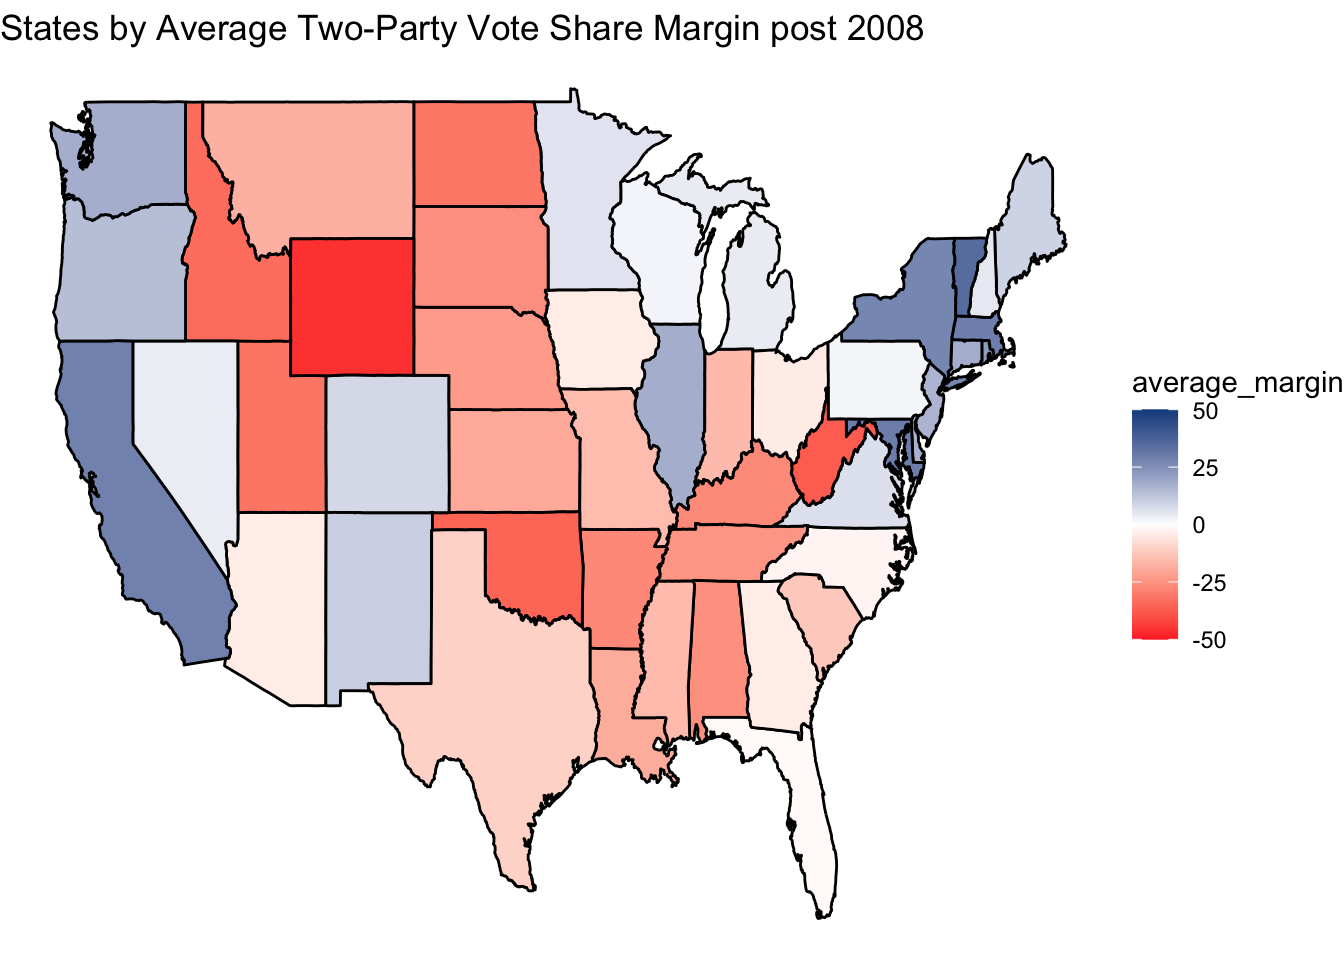
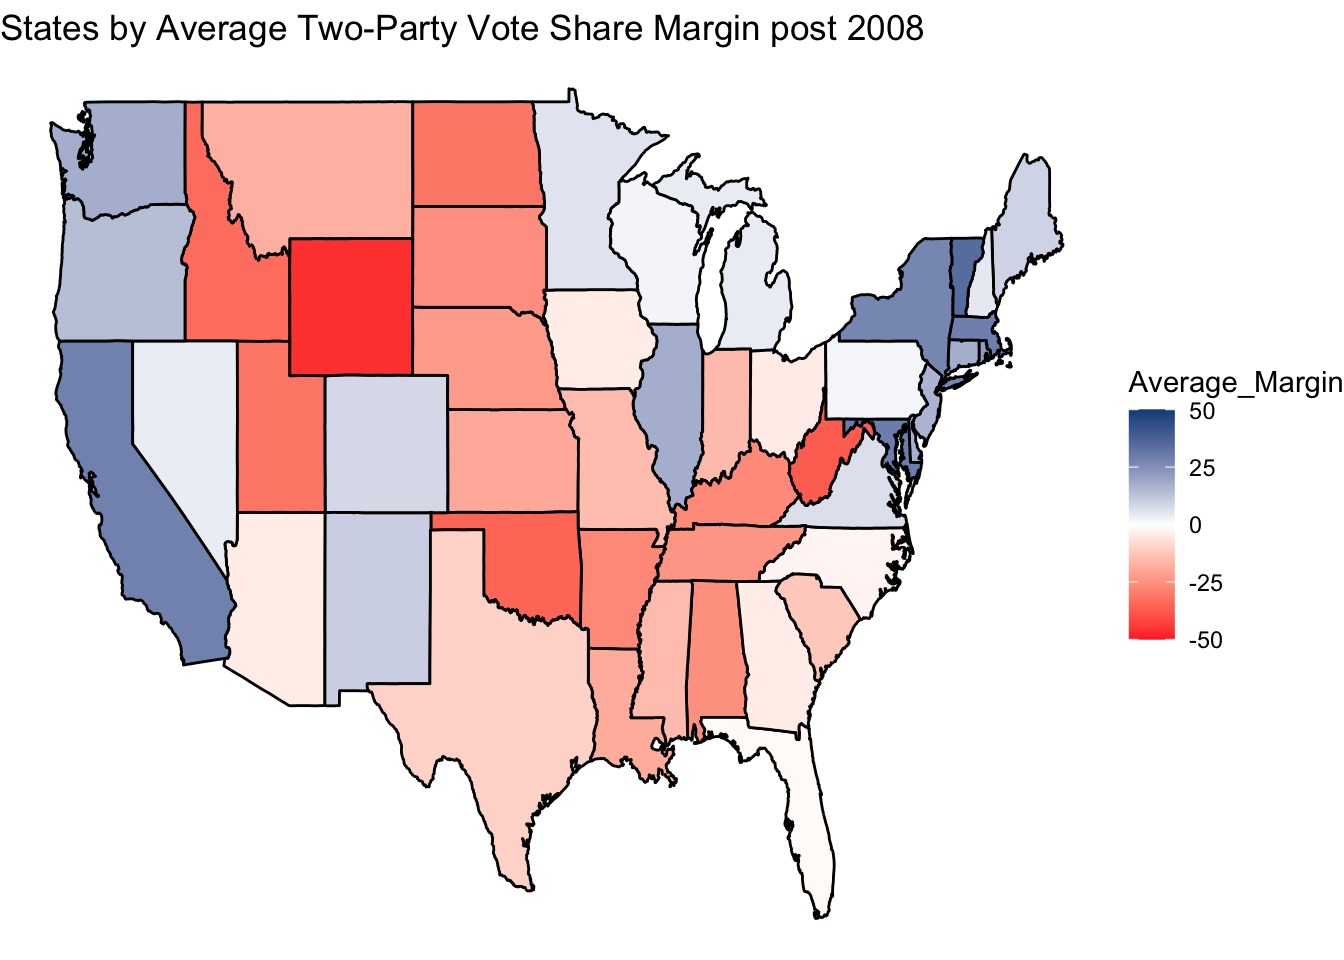
Update comments on site

diff --git a/public/post/2024/09/07/week-1-initial-analyses/index.html b/public/post/2024/09/07/week-1-initial-analyses/index.html
@@ -26,7 +26,7 @@
 </div>
 
 <main>
-<p>In this first blog post, I conduct some initial analyses of historical American presidential elections. Using popular vote data from 1948-2020 (provided by the course), I analyze how competitive elections are and the proportion of states that vote blue/red. My thanks to Matt Dardet for writing much of this code during and before our weekly section, as well as ShuXin Ho for helping me identify latitude/longitude loading bugs in my maps.</p>
+<p>In this first blog post, I conduct some initial analyses of historical American presidential elections. Using popular vote data from 1948-2020 (provided by the course), I analyze how competitive elections are and the proportion of states that vote blue/red. My thanks to Matt Dardet for writing much of this code during and before our weekly section, as well as ShuXin Ho for helping me identify latitude/longitude loading bugs in my maps when we were initially building them in section.</p>
 <p>To answer this week&rsquo;s questions, which focus on electoral competitiveness and historical voting patterns, we began by observing general trends in preference for either of the two major parties&rsquo; candidates between 1948 and 2020 at both the national and state level. For the former, we produced a line plot of the two-party vote share per party in each election. For the latter, we showed which candidate won each state in each election.</p>
 <pre><code class="language-r">library(ggplot2)
 library(maps)
@@ -91,7 +91,7 @@ d_pvstate_wide &lt;- read_csv(&quot;clean_wide_state_2pv_1948_2020.csv&quot;)
 # Creating new dataframe with winners highlighted
 pop_2p_vote_w_state &lt;- d_pvstate_wide |&gt;
   left_join(states_map, by = &quot;region&quot;) |&gt;
-  mutate(winner = ifelse(D_pv2p &gt; R_pv2p, &quot;D&quot;, &quot;R&quot;))
+  mutate(Winner = ifelse(D_pv2p &gt; R_pv2p, &quot;D&quot;, &quot;R&quot;))
 </code></pre>
 <pre><code>## Warning in left_join(d_pvstate_wide, states_map, by = &quot;region&quot;): Detected an unexpected many-to-many relationship between `x` and `y`.
 ## ℹ Row 1 of `x` matches multiple rows in `y`.
@@ -101,11 +101,12 @@ pop_2p_vote_w_state &lt;- d_pvstate_wide |&gt;
 </code></pre>
 <pre><code class="language-r"># Map of Two Party Popular Vote Winners by State
 pop_2p_vote_winner_by_year_map &lt;- pop_2p_vote_w_state |&gt;
-  ggplot(mapping = aes(x = long, y = lat, group = group)) + geom_polygon(aes(fill = winner), color = &quot;black&quot;) +
+  ggplot(mapping = aes(x = long, y = lat, group = group)) + geom_polygon(aes(fill = Winner), color = &quot;black&quot;) +
   scale_fill_manual(values = c(&quot;dodgerblue4&quot;, &quot;firebrick1&quot;)) +
   facet_wrap(~year)+
   theme_void() +
-  labs(title = &quot;Two-Party Popular Vote Winners by State by Year&quot;)
+  labs(title = &quot;Two-Party Popular Vote Winners by State by Year&quot;,
+       label = &quot;Winner of State&quot;)
 
 line_plot_win_trend
 </code></pre>
@@ -114,18 +115,20 @@ line_plot_win_trend
 </code></pre>
 <img src="https://example.org/post/2024/09/07/week-1-initial-analyses/index_files/figure-html/unnamed-chunk-2-2.png" width="672" />
 <p>To further explore state competitiveness, especially in recent years, I also produced the following map demonstrating the average two-party popular vote margin in each state in each election following 2008. I chose this cutoff to reflect modern trends in state-party alignment, especially in the era of Trump.</p>
-<pre><code class="language-r">pop_2p_vote_by_state_post2008 &lt;- pop_2p_vote_w_state |&gt;
+<pre><code class="language-r"># Dataframe averaging the margin between Democratic and Republican vote share for 2012, 2016, and 2020 elections (by state)
+pop_2p_vote_by_state_post2008 &lt;- pop_2p_vote_w_state |&gt;
   filter(year &gt; 2008) |&gt;
   mutate(margin = D_pv2p - R_pv2p) |&gt;
-  group_by(state, group, order, lat, long) |&gt;
-  summarize(average_margin = mean(margin))
+  group_by(state, group, order, lat, long) |&gt; # This particular order was necessary to avoid code bugs
+  summarize(Average_Margin = mean(margin))
 </code></pre>
 <pre><code>## `summarise()` has grouped output by 'state', 'group', 'order', 'lat'. You can
 ## override using the `.groups` argument.
 </code></pre>
-<pre><code class="language-r">map_pop_2p_vote_by_state_post2008 &lt;- pop_2p_vote_by_state_post2008 |&gt;
+<pre><code class="language-r"># Mapping margin
+map_pop_2p_vote_by_state_post2008 &lt;- pop_2p_vote_by_state_post2008 |&gt;
   ggplot(mapping = aes(x=long, y = lat, group = group)) +
-  geom_polygon(aes(fill = average_margin), color = &quot;black&quot;) +
+  geom_polygon(aes(fill = Average_Margin), color = &quot;black&quot;) +
   scale_fill_gradient2(high= &quot;dodgerblue4&quot;,
                        mid = &quot;white&quot;,
                        low = &quot;firebrick1&quot;,
@@ -141,10 +144,11 @@ map_pop_2p_vote_by_state_post2008
 <img src="https://example.org/post/2024/09/07/week-1-initial-analyses/index_files/figure-html/unnamed-chunk-3-1.png" width="672" />
 <p>States that are more red on this map have consistently tended to overwhelmingly vote Republican, while those that are more blue have consistently voted overwhelmingly Democrat. While states like California and Wyoming appear to often regularly vote Democrat and Republican respectively, it is interesting to observe cases like Ohio or Michigan, which may tend to lean Republican or Democrat, but have a much smaller margin, indicating greater competitiveness.</p>
 <p>Then, to further understand what states have been battlegrounds, I created an additional map, which plots the degree to which a state&rsquo;s Democratic vote share has changed. Assuming that any declines correspond to an equal increase in Republican vote share and increases correspond to an equal decline in Republican vote share (ie: we ignore third party candidates for now), this map shows if a state has become &ldquo;redder&rdquo; or &ldquo;bluer&rdquo; since the previous election.</p>
-<pre><code class="language-r">swing_maps_data &lt;- pop_2p_vote_w_state |&gt;
-  mutate(swing = (D_pv2p) - (D_pv2p_lag1)) |&gt;
+<pre><code class="language-r"># New map measuring variation in Democratic vote share from previous election
+swing_maps_data &lt;- pop_2p_vote_w_state |&gt;
+  mutate(Democratic_Vote_Change = (D_pv2p) - (D_pv2p_lag1)) |&gt;
   ggplot(aes(x = long, y = lat, group = group)) + 
-  geom_polygon(aes(fill = swing), color = &quot;black&quot;) +
+  geom_polygon(aes(fill = Democratic_Vote_Change), color = &quot;black&quot;) +
   scale_fill_gradient2(low = &quot;firebrick1&quot;,
                       mid = &quot;white&quot;,
                       high = &quot;dodgerblue4&quot;,

diff --git a/content/post/2024-09-07-week-1-initial-analyses/index.md b/content/post/2024-09-07-week-1-initial-analyses/index.md
@@ -7,7 +7,7 @@ categories: []
 tags: []
 ---
 
-In this first blog post, I conduct some initial analyses of historical American presidential elections. Using popular vote data from 1948-2020 (provided by the course), I analyze how competitive elections are and the proportion of states that vote blue/red. My thanks to Matt Dardet for writing much of this code during and before our weekly section, as well as ShuXin Ho for helping me identify latitude/longitude loading bugs in my maps.
+In this first blog post, I conduct some initial analyses of historical American presidential elections. Using popular vote data from 1948-2020 (provided by the course), I analyze how competitive elections are and the proportion of states that vote blue/red. My thanks to Matt Dardet for writing much of this code during and before our weekly section, as well as ShuXin Ho for helping me identify latitude/longitude loading bugs in my maps when we were initially building them in section.
 
 
 To answer this week's questions, which focus on electoral competitiveness and historical voting patterns, we began by observing general trends in preference for either of the two major parties' candidates between 1948 and 2020 at both the national and state level. For the former, we produced a line plot of the two-party vote share per party in each election. For the latter, we showed which candidate won each state in each election. 
@@ -94,7 +94,7 @@ d_pvstate_wide$region = tolower(d_pvstate_wide$state)
 # Creating new dataframe with winners highlighted
 pop_2p_vote_w_state <- d_pvstate_wide |>
   left_join(states_map, by = "region") |>
-  mutate(winner = ifelse(D_pv2p > R_pv2p, "D", "R"))
+  mutate(Winner = ifelse(D_pv2p > R_pv2p, "D", "R"))
 ```
 
 ```
@@ -108,11 +108,12 @@ pop_2p_vote_w_state <- d_pvstate_wide |>
 ``` r
 # Map of Two Party Popular Vote Winners by State
 pop_2p_vote_winner_by_year_map <- pop_2p_vote_w_state |>
-  ggplot(mapping = aes(x = long, y = lat, group = group)) + geom_polygon(aes(fill = winner), color = "black") +
+  ggplot(mapping = aes(x = long, y = lat, group = group)) + geom_polygon(aes(fill = Winner), color = "black") +
   scale_fill_manual(values = c("dodgerblue4", "firebrick1")) +
   facet_wrap(~year)+
   theme_void() +
-  labs(title = "Two-Party Popular Vote Winners by State by Year")
+  labs(title = "Two-Party Popular Vote Winners by State by Year",
+       label = "Winner of State")
 
 line_plot_win_trend
 ```
@@ -131,11 +132,12 @@ To further explore state competitiveness, especially in recent years, I also pro
 
 
 ``` r
+# Dataframe averaging the margin between Democratic and Republican vote share for 2012, 2016, and 2020 elections (by state)
 pop_2p_vote_by_state_post2008 <- pop_2p_vote_w_state |>
   filter(year > 2008) |>
   mutate(margin = D_pv2p - R_pv2p) |>
-  group_by(state, group, order, lat, long) |>
-  summarize(average_margin = mean(margin))
+  group_by(state, group, order, lat, long) |> # This particular order was necessary to avoid code bugs
+  summarize(Average_Margin = mean(margin))
 ```
 
 ```
@@ -144,9 +146,10 @@ pop_2p_vote_by_state_post2008 <- pop_2p_vote_w_state |>
 ```
 
 ``` r
+# Mapping margin
 map_pop_2p_vote_by_state_post2008 <- pop_2p_vote_by_state_post2008 |>
   ggplot(mapping = aes(x=long, y = lat, group = group)) +
-  geom_polygon(aes(fill = average_margin), color = "black") +
+  geom_polygon(aes(fill = Average_Margin), color = "black") +
   scale_fill_gradient2(high= "dodgerblue4",
                        mid = "white",
                        low = "firebrick1",
@@ -168,10 +171,11 @@ Then, to further understand what states have been battlegrounds, I created an ad
 
 
 ``` r
+# New map measuring variation in Democratic vote share from previous election
 swing_maps_data <- pop_2p_vote_w_state |>
-  mutate(swing = (D_pv2p) - (D_pv2p_lag1)) |>
+  mutate(Democratic_Vote_Change = (D_pv2p) - (D_pv2p_lag1)) |>
   ggplot(aes(x = long, y = lat, group = group)) + 
-  geom_polygon(aes(fill = swing), color = "black") +
+  geom_polygon(aes(fill = Democratic_Vote_Change), color = "black") +
   scale_fill_gradient2(low = "firebrick1",
                       mid = "white",
                       high = "dodgerblue4",
